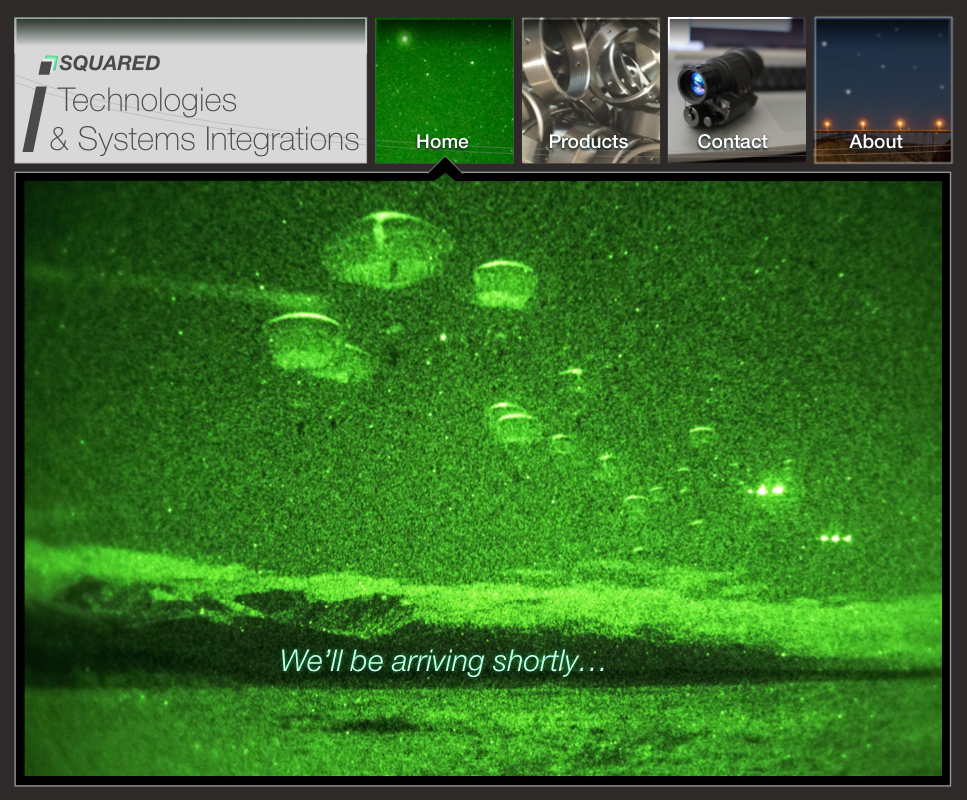
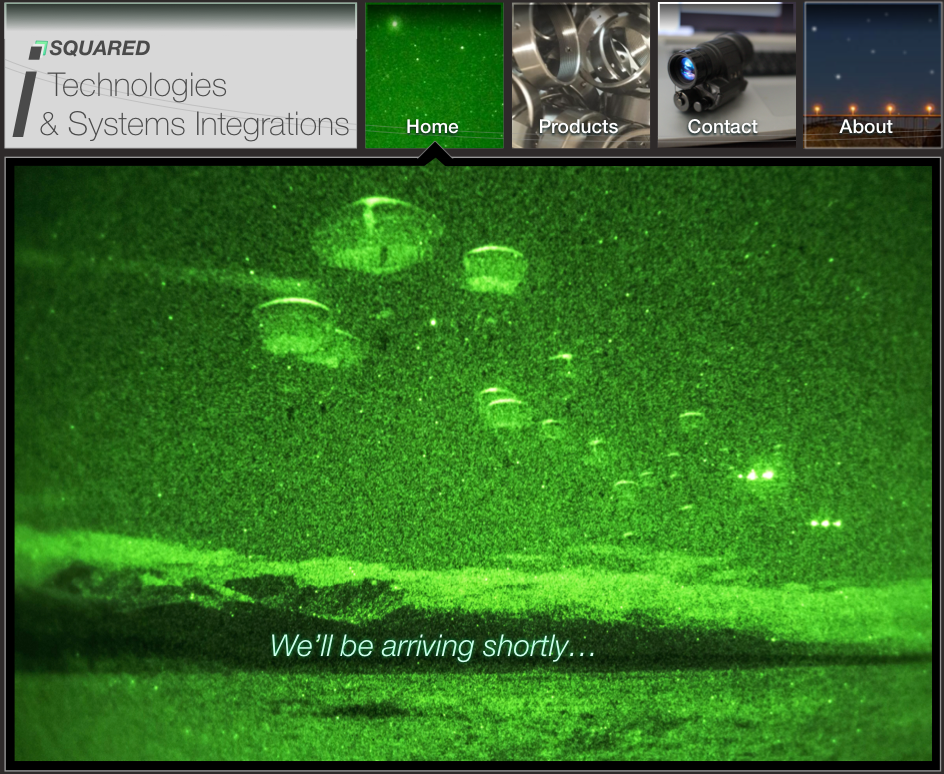
LIVE

diff --git a/index.html b/index.html
@@ -16,7 +16,7 @@
 
 	<div id="container">
 		<div id="logo">
-			<a href="info.php" id="logo"><img src="gears.png" alt=“iSquared Technologies” /></a>
+			<img src="gears.png" alt=“iSquared Technologies” />
 		</div>
 	</div>
 

diff --git a/i2.css b/i2.css
@@ -7,8 +7,8 @@ div#logo {
 margin-left:auto;
 margin-right:auto;
 margin-top:180px;
-width:557px;
-height 305px;
+width:944px;
+height 774px;
 }
 
 div#container {
